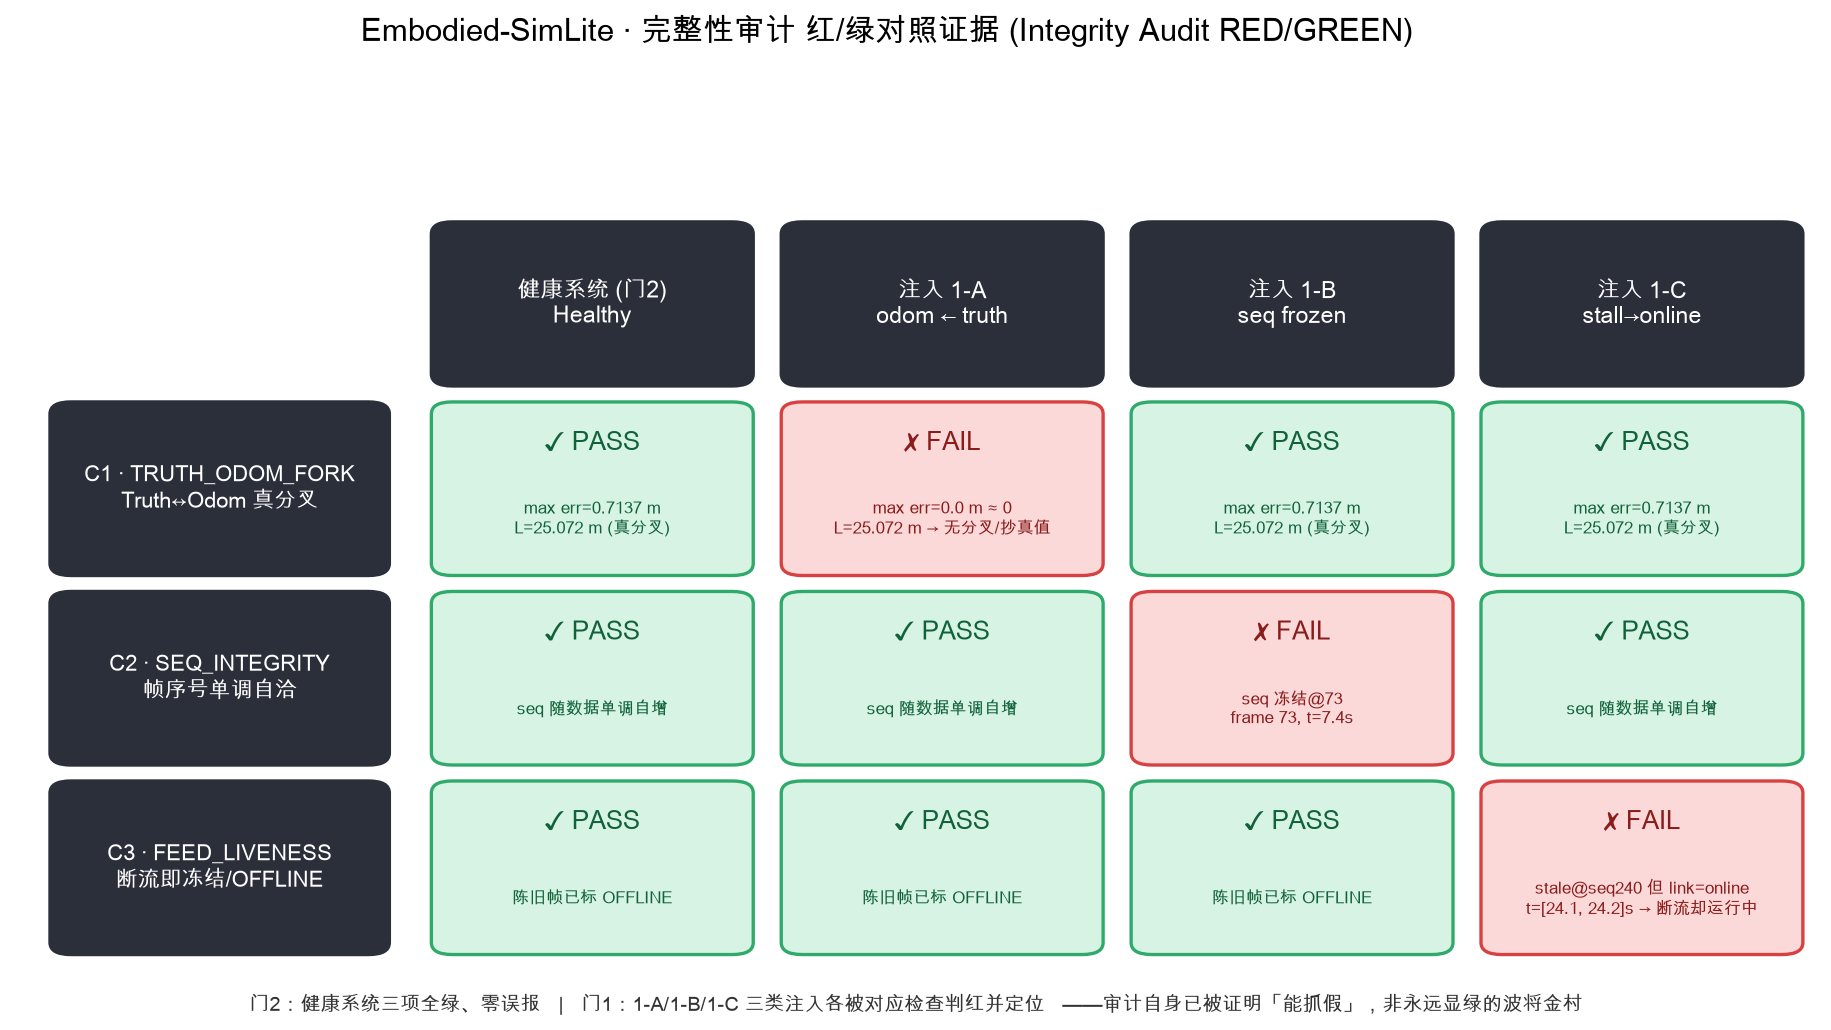
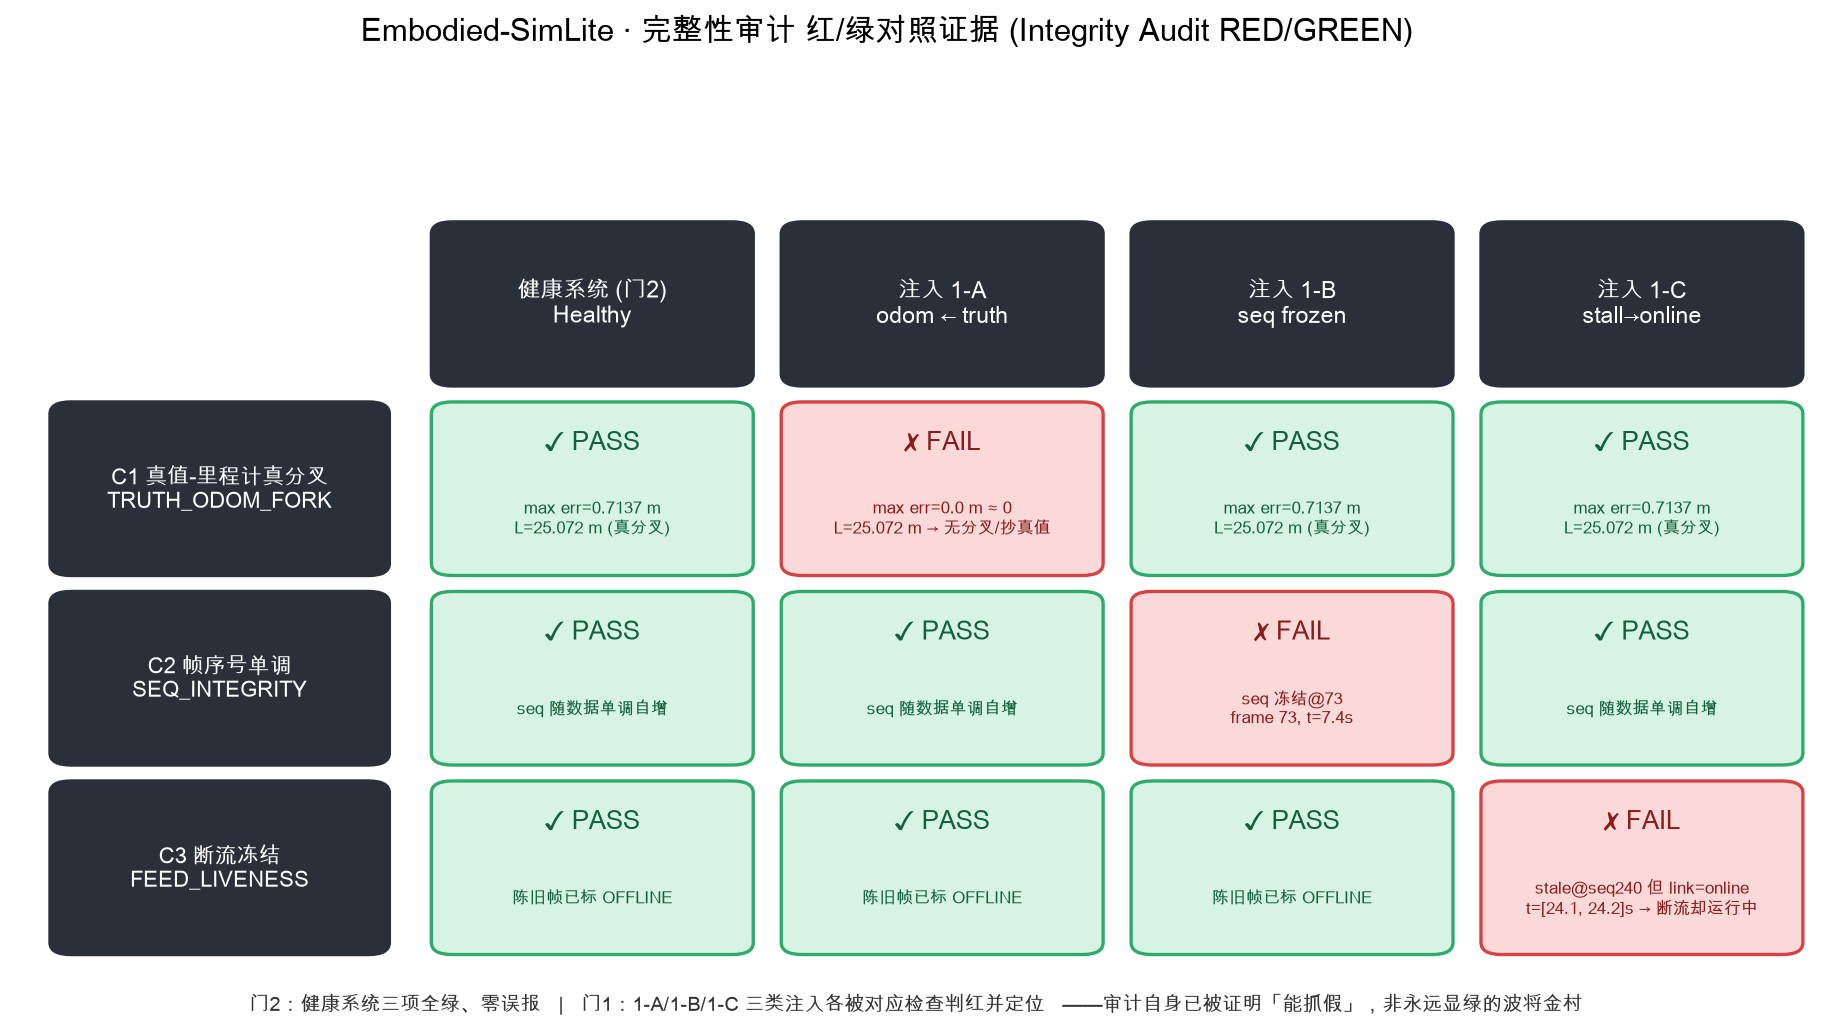
任务二:审计检查点术语与论文 v1.1 对齐
- integrity_audit.py:显示层 desc 统一为中英双语(C1 真值-里程计真分叉 / TRUTH_ODOM_FORK、
  C2 帧序号单调 / SEQ_INTEGRITY、C3 断流冻结 / FEED_LIVENESS);内部 check 标识符不变
- format_report:PASS/FAIL 增加 ✓/✗ 标记,黑白印刷与色弱可辨
- make_audit_figure.py:红绿矩阵行名与论文图 2 逐字一致(格内原有 ✓PASS/✗FAIL 保留)
- inference_server.py:前端 OFFLINE 遮罩标注 C3 检查点双语名称
- README.md:2.3 节检查表与目录说明同步论文术语
- 已实跑 run_action1.py 三道门(全部通过)并重生成 audit_redgreen_matrix.png

Changed region(s): [[0.0623, 0.8078, 0.1868, 0.8699], [0.0623, 0.6214, 0.1868, 0.6835], [0.0623, 0.435, 0.1868, 0.4971]]

diff --git a/audit/integrity_audit.py b/audit/integrity_audit.py
@@ -30,6 +30,13 @@ session 帧记录契约（list[dict]）：
 import math
 
 # ---- 判定阈值（保守、物理可解释；非为凑结果而调，见 INV-2）----
+# ---- 显示层名称(论文 v1.1 术语,与论文图 2 行名逐字一致)----
+# 注意:内部 check 标识符(C1_TRUTH_ODOM_FORK 等)保持不变以兼容既有 session/脚本,
+# 此处仅统一"显示层"文案为中英双语格式。
+DESC_C1 = "C1 真值-里程计真分叉 / TRUTH_ODOM_FORK"
+DESC_C2 = "C2 帧序号单调 / SEQ_INTEGRITY"
+DESC_C3 = "C3 断流冻结 / FEED_LIVENESS"
+
 EPS_FORK = 1e-4        # Truth–Odom 视为"无分叉"的误差上限 (m)：健康系统打滑后远超此值
 MIN_MOTION = 0.5       # C1 生效所需的最小真值累计行程 (m)：行程不足则判 N/A 而非误报
 EPS_MOVE = 1e-9        # 判定"位姿发生移动"的最小欧氏增量 (m)
@@ -73,7 +80,7 @@ def check_truth_odom_fork(session):
     """
     online = [f for f in session if f.get("link_status", "online") == "online"]
     if len(online) < 2:
-        return _result("C1_TRUTH_ODOM_FORK", "Truth 与 Odom 是否真分叉",
+        return _result("C1_TRUTH_ODOM_FORK", DESC_C1,
                        True, "online 帧不足，N/A")
 
     L = 0.0
@@ -86,18 +93,18 @@ def check_truth_odom_fork(session):
             e_max, e_max_seq = e, f["seq"]
 
     if L < MIN_MOTION:
-        return _result("C1_TRUTH_ODOM_FORK", "Truth 与 Odom 是否真分叉",
+        return _result("C1_TRUTH_ODOM_FORK", DESC_C1,
                        True, f"真值累计行程 L={L:.3f}m < {MIN_MOTION}m，运动不足，N/A")
 
     if e_max < EPS_FORK:
         return _result(
-            "C1_TRUTH_ODOM_FORK", "Truth 与 Odom 是否真分叉", False,
+            "C1_TRUTH_ODOM_FORK", DESC_C1, False,
             f"行程 L={L:.2f}m 内 Truth–Odom 最大误差仅 {e_max:.2e}m (<{EPS_FORK:.0e}) —— "
             f"里程计无漂移/疑似抄真值（假仪表）",
             locator={"max_err_m": e_max, "truth_path_len_m": round(L, 3),
                      "n_online_frames": len(online)})
     return _result(
-        "C1_TRUTH_ODOM_FORK", "Truth 与 Odom 是否真分叉", True,
+        "C1_TRUTH_ODOM_FORK", DESC_C1, True,
         f"行程 L={L:.2f}m 内 Truth–Odom 最大误差 {e_max:.3f}m @seq={e_max_seq}（真分叉）",
         locator={"max_err_m": round(e_max, 4), "truth_path_len_m": round(L, 3)})
 
@@ -121,18 +128,18 @@ def check_seq_integrity(session):
         if prev is not None:
             ps, cs = prev["seq"], f["seq"]
             if cs < ps:
-                return _result("C2_SEQ_INTEGRITY", "帧序号是否单调自洽", False,
+                return _result("C2_SEQ_INTEGRITY", DESC_C2, False,
                                f"帧序号倒退：seq {ps} → {cs}",
                                locator={"frame_index": i, "prev_seq": ps, "seq": cs,
                                         "recv_t": f["recv_t"]})
             if _moved(prev, f) and cs == ps:
-                return _result("C2_SEQ_INTEGRITY", "帧序号是否单调自洽", False,
+                return _result("C2_SEQ_INTEGRITY", DESC_C2, False,
                                f"数据在更新（真值移动 {_dist(prev['truth'], f['truth']):.3f}m）"
                                f"但帧序号冻结于 seq={cs}",
                                locator={"frame_index": i, "frozen_seq": cs,
                                         "recv_t": f["recv_t"]})
         prev = f
-    return _result("C2_SEQ_INTEGRITY", "帧序号是否单调自洽", True,
+    return _result("C2_SEQ_INTEGRITY", DESC_C2, True,
                    "所有 online 帧的帧序号随数据更新单调自增")
 
 
@@ -160,7 +167,7 @@ def check_feed_liveness(session):
                 stale_run += 1
                 if stale_run >= STALE_TOL:
                     return _result(
-                        "C3_FEED_LIVENESS", "断流是否即冻结并标 OFFLINE", False,
+                        "C3_FEED_LIVENESS", DESC_C3, False,
                         f"feed 已停更（自 seq={f['seq']} 起连续 {stale_run} 帧数据冻结、"
                         f"墙钟仍在推进）但链路仍声明 online —— 断流却显示运行中",
                         locator={"stale_from_frame": run_start, "frozen_seq": f["seq"],
@@ -171,7 +178,7 @@ def check_feed_liveness(session):
         else:
             stale_run = 0
         prev = f
-    return _result("C3_FEED_LIVENESS", "断流是否即冻结并标 OFFLINE", True,
+    return _result("C3_FEED_LIVENESS", DESC_C3, True,
                    "无'断流却显示运行中'：陈旧帧均已正确标记 OFFLINE 冻结")
 
 
@@ -190,10 +197,10 @@ def format_report(audit, title=""):
     lines = []
     if title:
         lines.append(title)
-    overall = "🟢 全绿通过 (GREEN)" if audit["passed"] else "🔴 检出自欺 (RED)"
+    overall = "🟢 ✓ 全绿通过 (GREEN)" if audit["passed"] else "🔴 ✗ 检出自欺 (RED)"
     lines.append(f"  审计总判定：{overall}")
     for r in audit["checks"]:
-        mark = "🟢 GREEN" if r["ok"] else "🔴 RED  "
+        mark = "✓ GREEN" if r["ok"] else "✗ RED  "  # ✓/✗ 保证黑白印刷与色弱可辨
         lines.append(f"    [{mark}] {r['check']:<22} {r['desc']}")
         lines.append(f"             └─ {r['detail']}")
         if not r["ok"] and r["locator"]:

diff --git a/audit/make_audit_figure.py b/audit/make_audit_figure.py
@@ -45,9 +45,10 @@ GREEN_FILL, GREEN_EDGE, GREEN_TXT = "#d7f3e3", "#2faa6a", "#11623b"
 RED_FILL, RED_EDGE, RED_TXT = "#fbd9d9", "#d84141", "#8a1c1c"
 HEAD_FILL, HEAD_TXT = "#2b2f3a", "#ffffff"
 
-ROWS = [("C1", "C1 · TRUTH_ODOM_FORK\nTruth↔Odom 真分叉"),
-        ("C2", "C2 · SEQ_INTEGRITY\n帧序号单调自洽"),
-        ("C3", "C3 · FEED_LIVENESS\n断流即冻结/OFFLINE")]
+# 行名与论文 v1.1 图 2 逐字一致(论文 v1.1 术语);内部 CHECK_ID 标识符保持不变
+ROWS = [("C1", "C1 真值-里程计真分叉\nTRUTH_ODOM_FORK"),
+        ("C2", "C2 帧序号单调\nSEQ_INTEGRITY"),
+        ("C3", "C3 断流冻结\nFEED_LIVENESS")]
 
 COLS = [("healthy", "健康系统 (门2)\nHealthy"),
         ("1-A_truth_copy", "注入 1-A\nodom ← truth"),

diff --git a/inference_server.py b/inference_server.py
@@ -316,6 +316,8 @@ HTML_CONTENT = """
                      background:rgba(0,0,0,0.8);">
                     <div style="font-size:1.6em; font-weight:bold;">⚠ OFFLINE</div>
                     <div style="margin-top:8px; color:#ffaaaa;">真理源链路中断 · 画面已冻结</div>
+                    <!-- 检查点名称为论文 v1.1 术语(与论文图 2 行名一致) -->
+                    <div style="margin-top:6px; font-size:0.85em; color:#ffbbbb;">完整性检查点：C3 断流冻结 / FEED_LIVENESS</div>
                     <div style="margin-top:4px; font-size:0.8em; color:#cc8888;">前端不做本地推演（dead-reckoning），等待后端重连…</div>
                 </div>
             </div>
